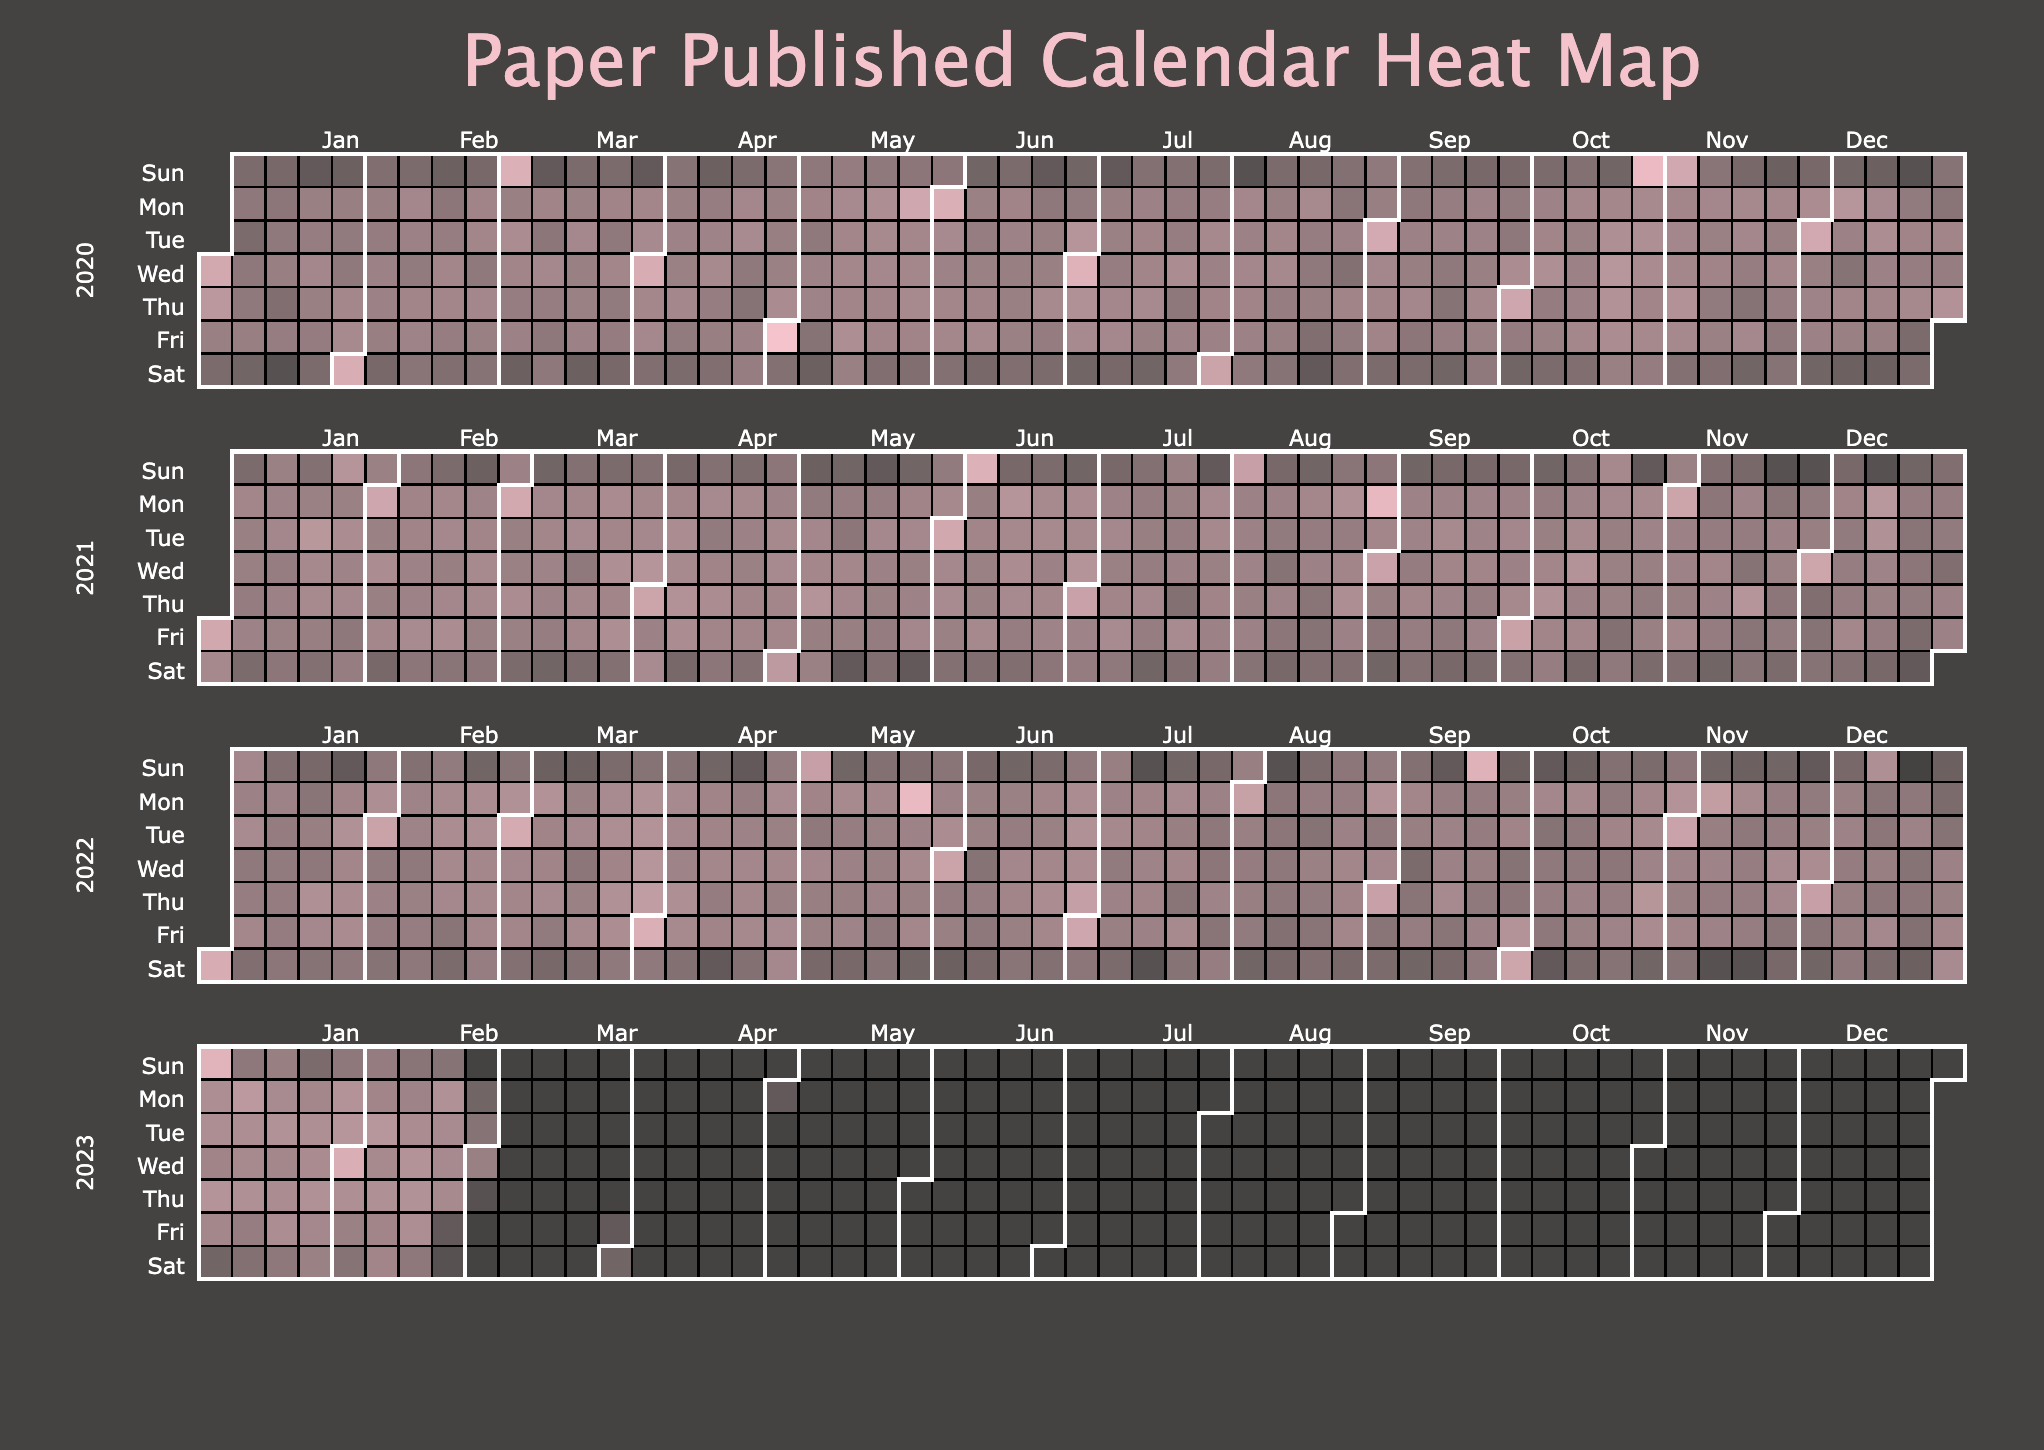
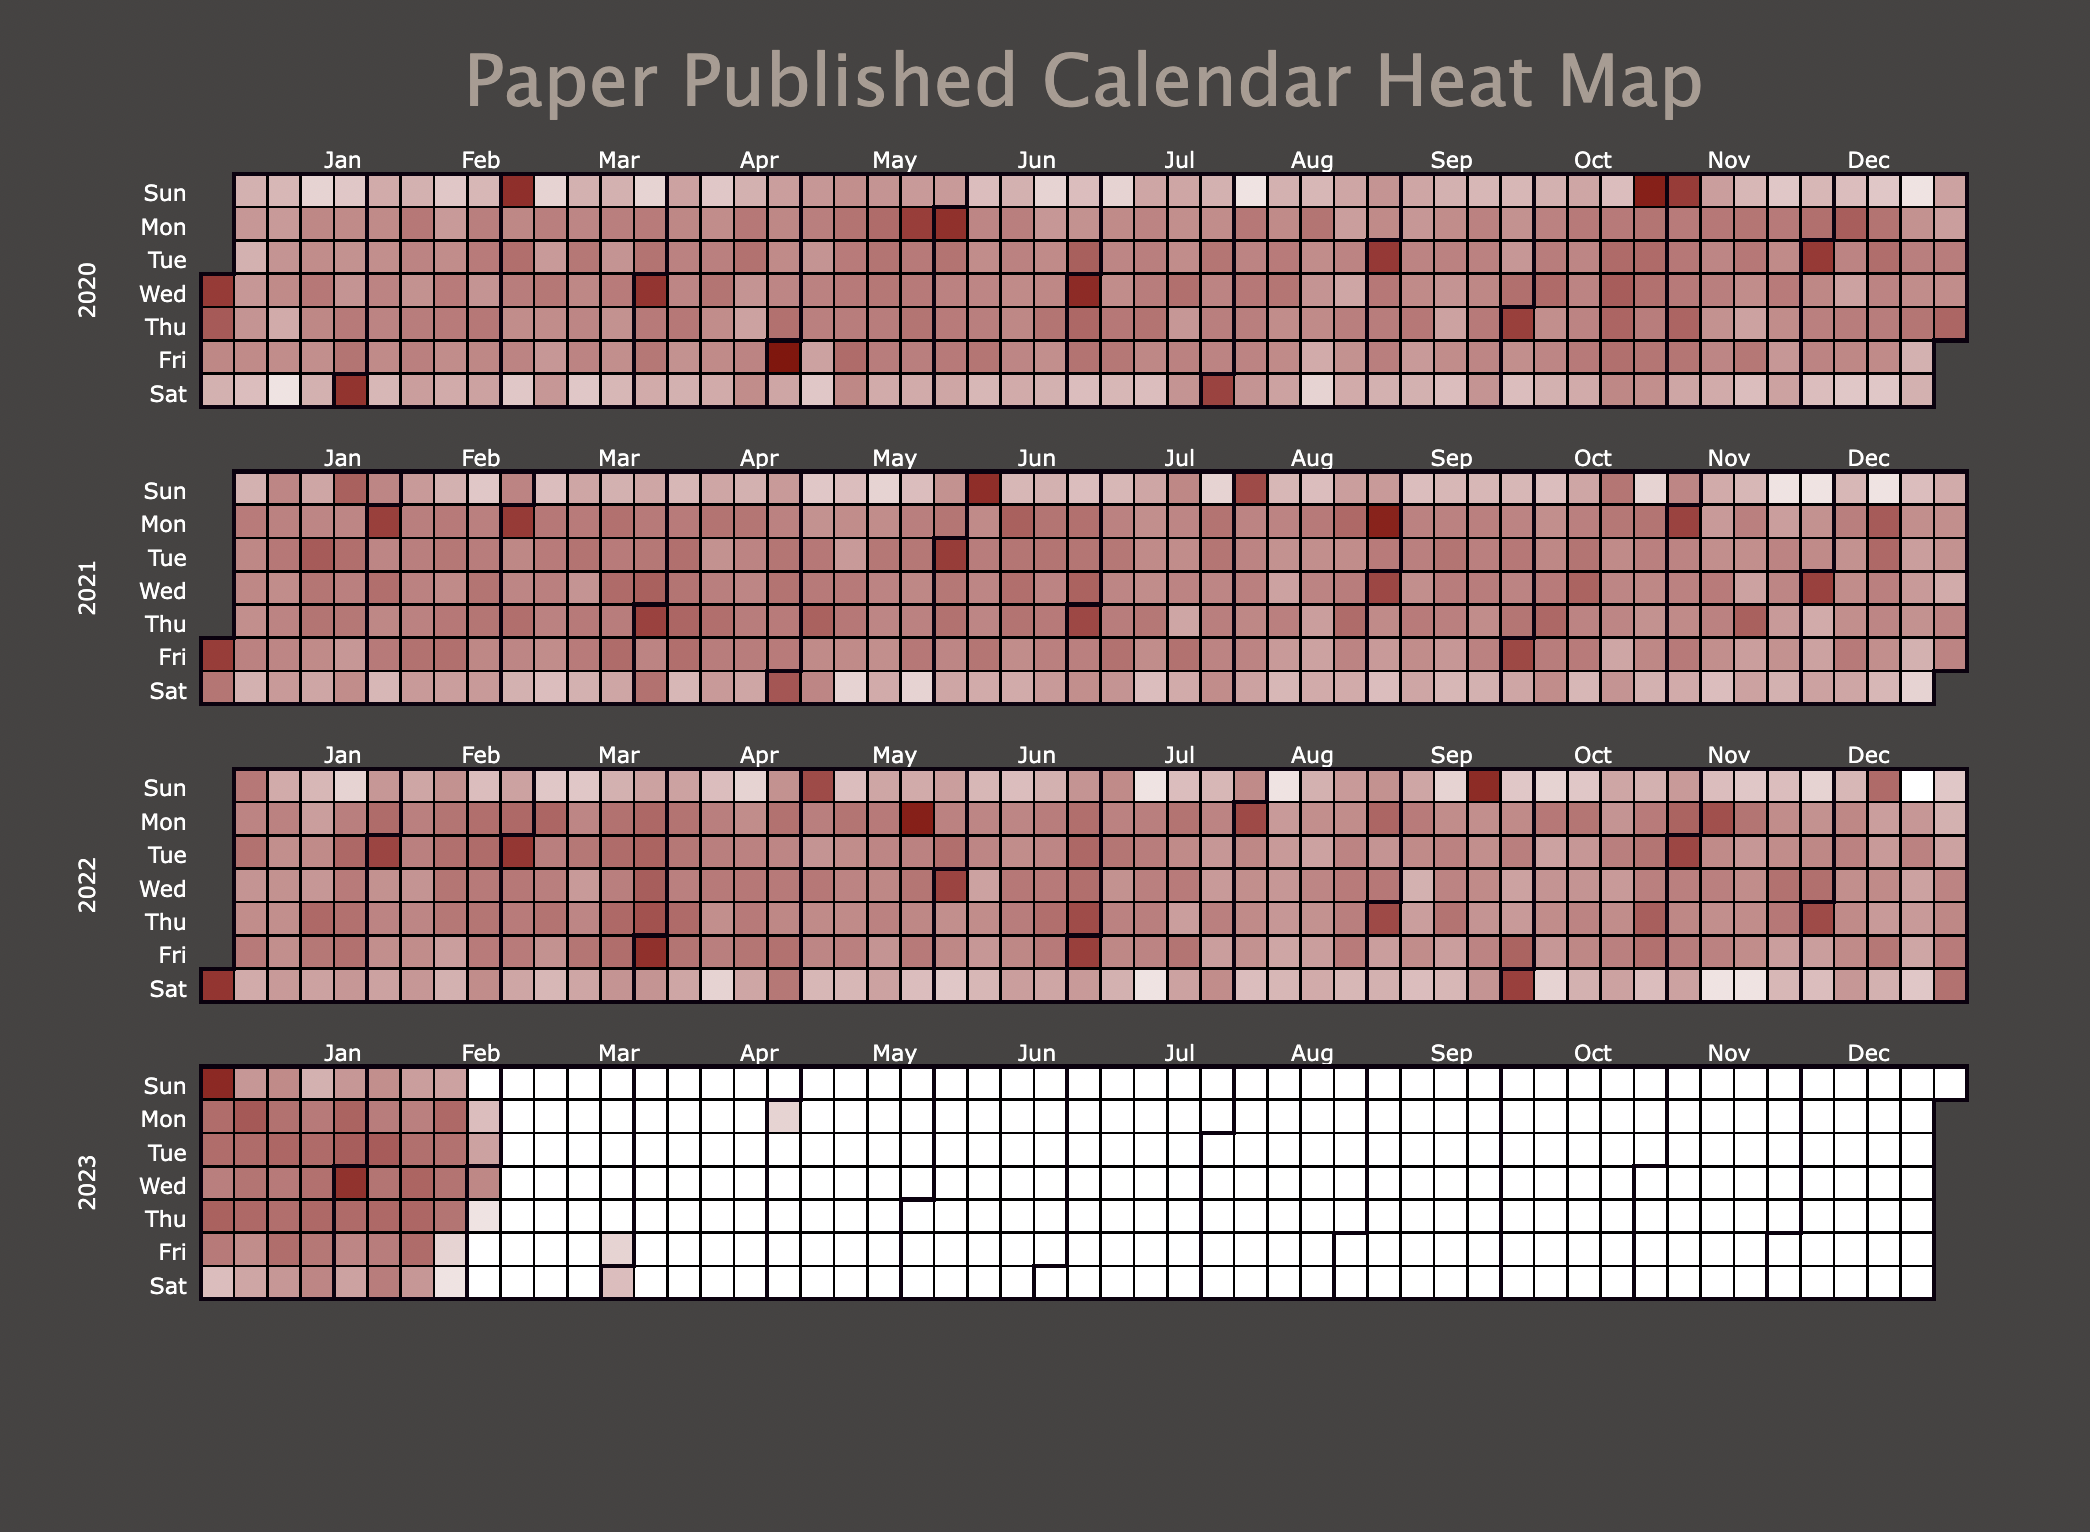
color

diff --git a/public/HeatMap/calendermap.js b/public/HeatMap/calendermap.js
@@ -15,7 +15,7 @@ var globalData = [];
 // var color = d3.scale.category20()
 //     .domain([0, 1]);
 
-var color = d3.scale.linear().range(["white", '#002b53'])
+var color = d3.scale.linear().range(["white", 'darkred'])
     .domain([0, 8.9]);
 
 // var color = scaleLinear()
